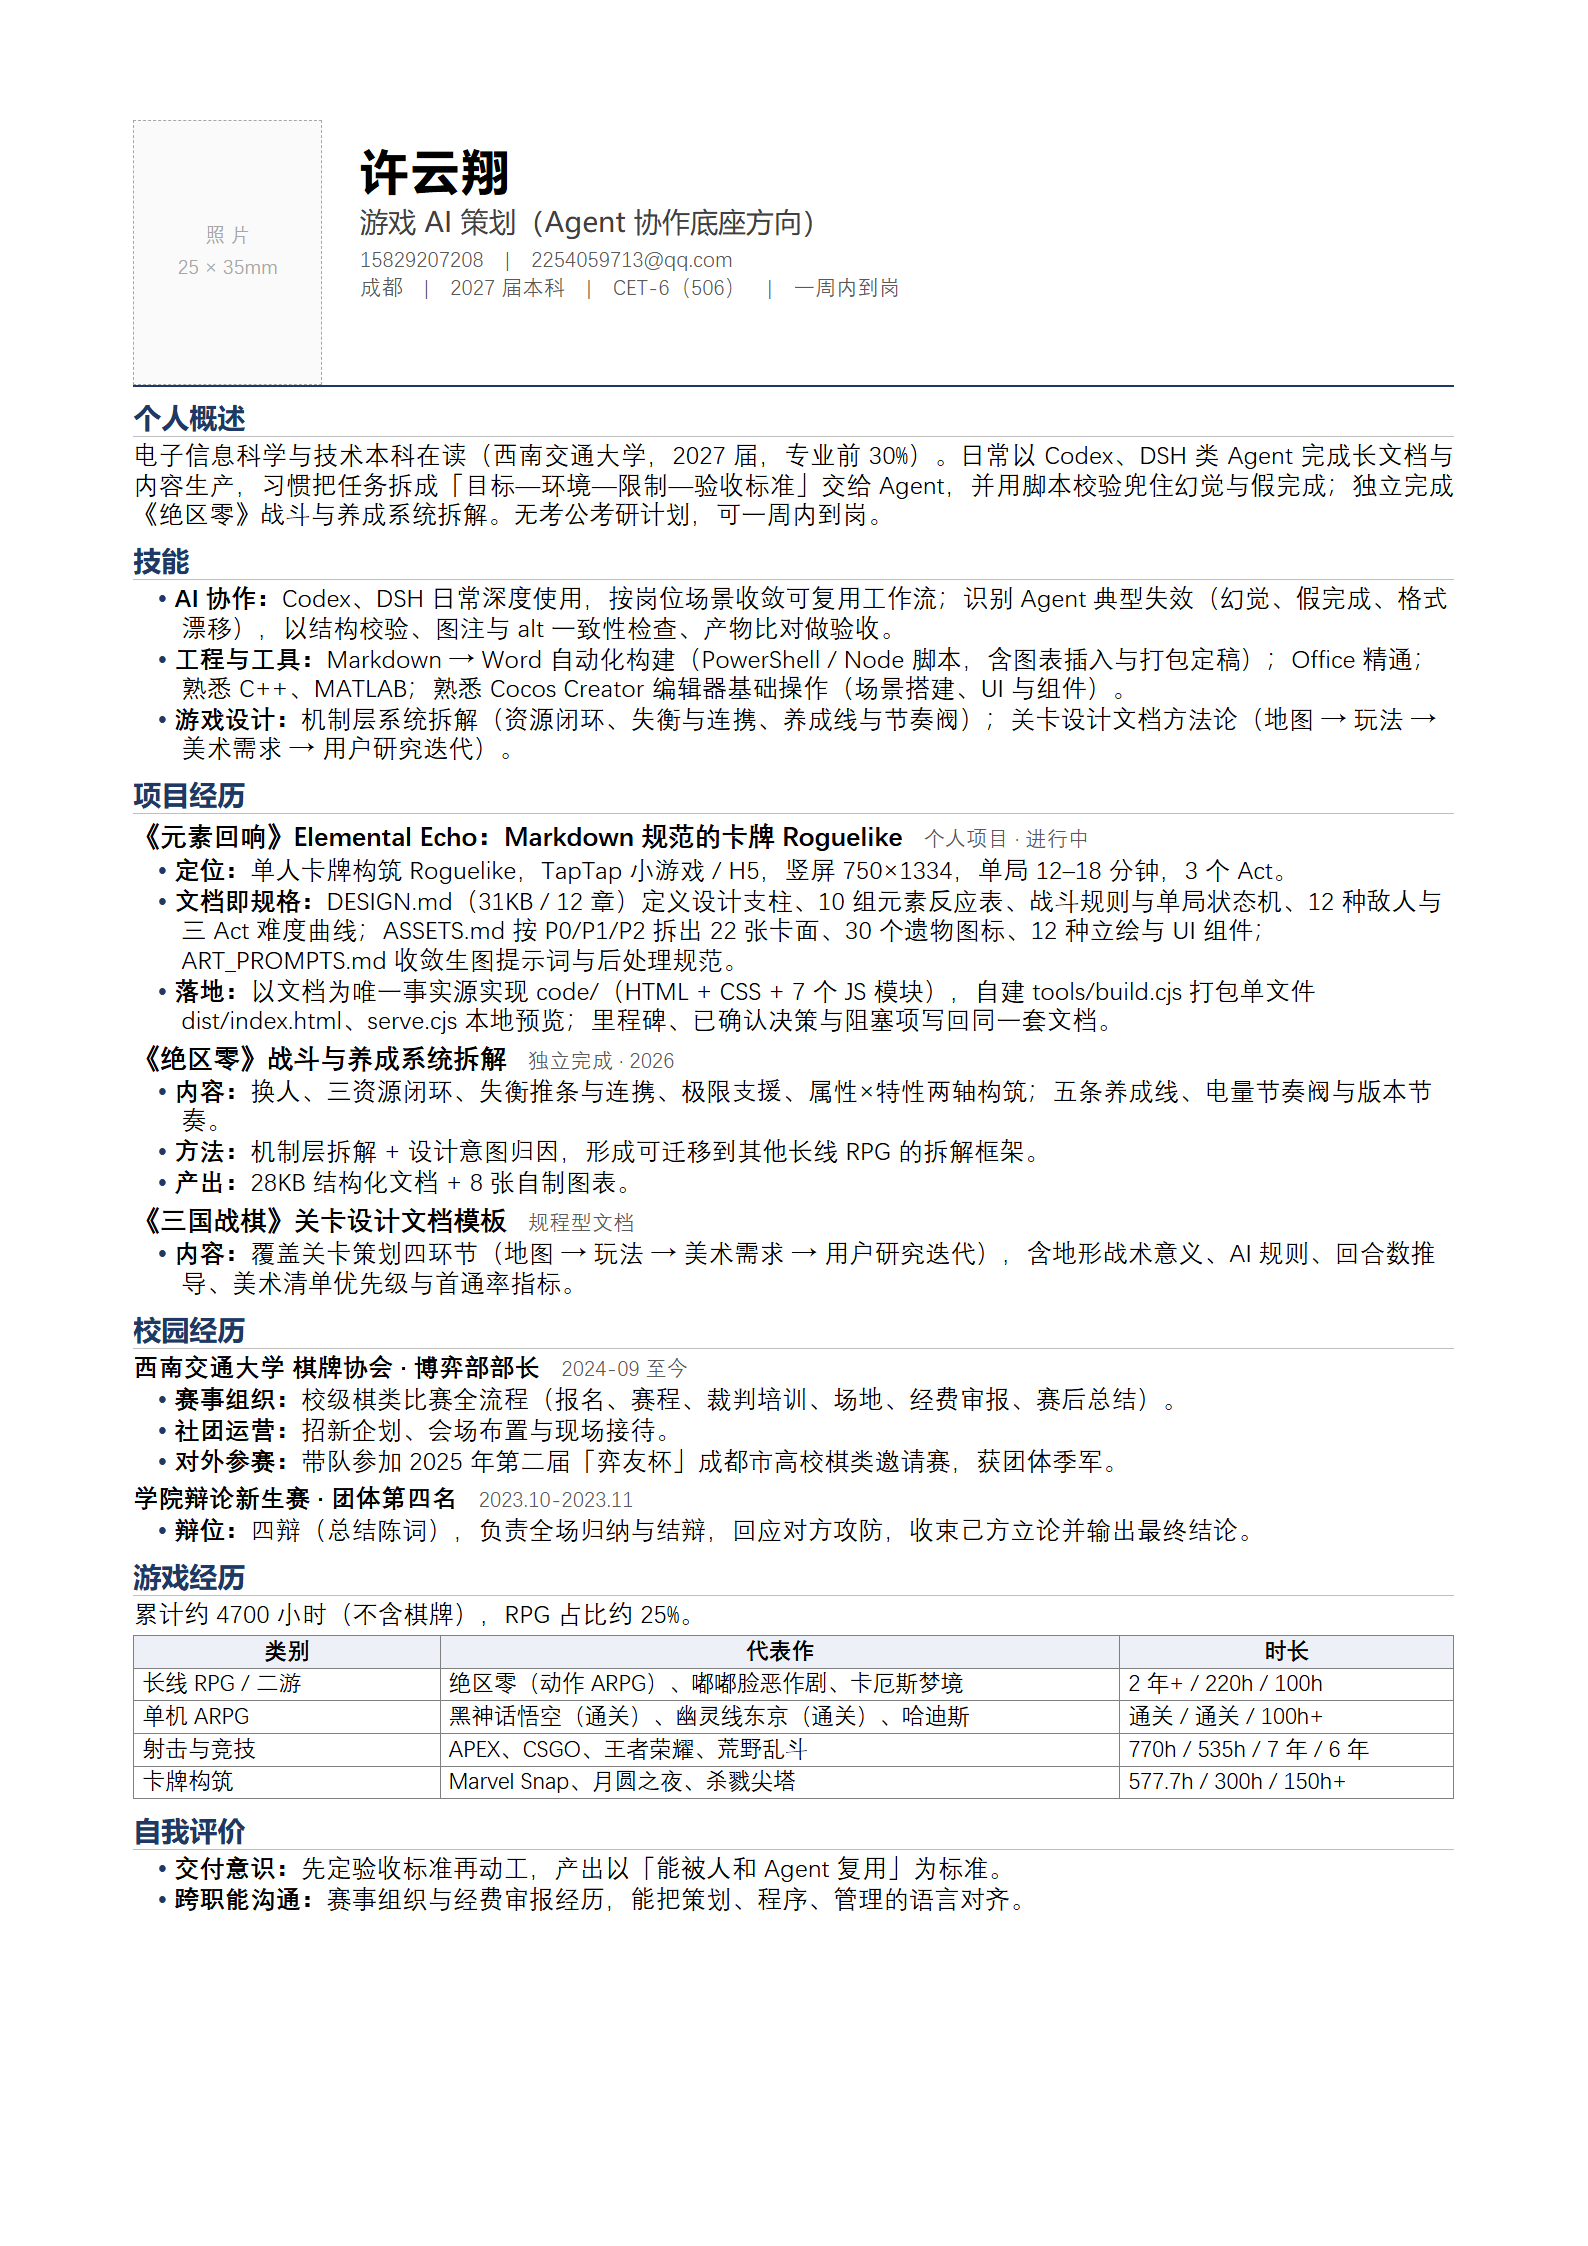
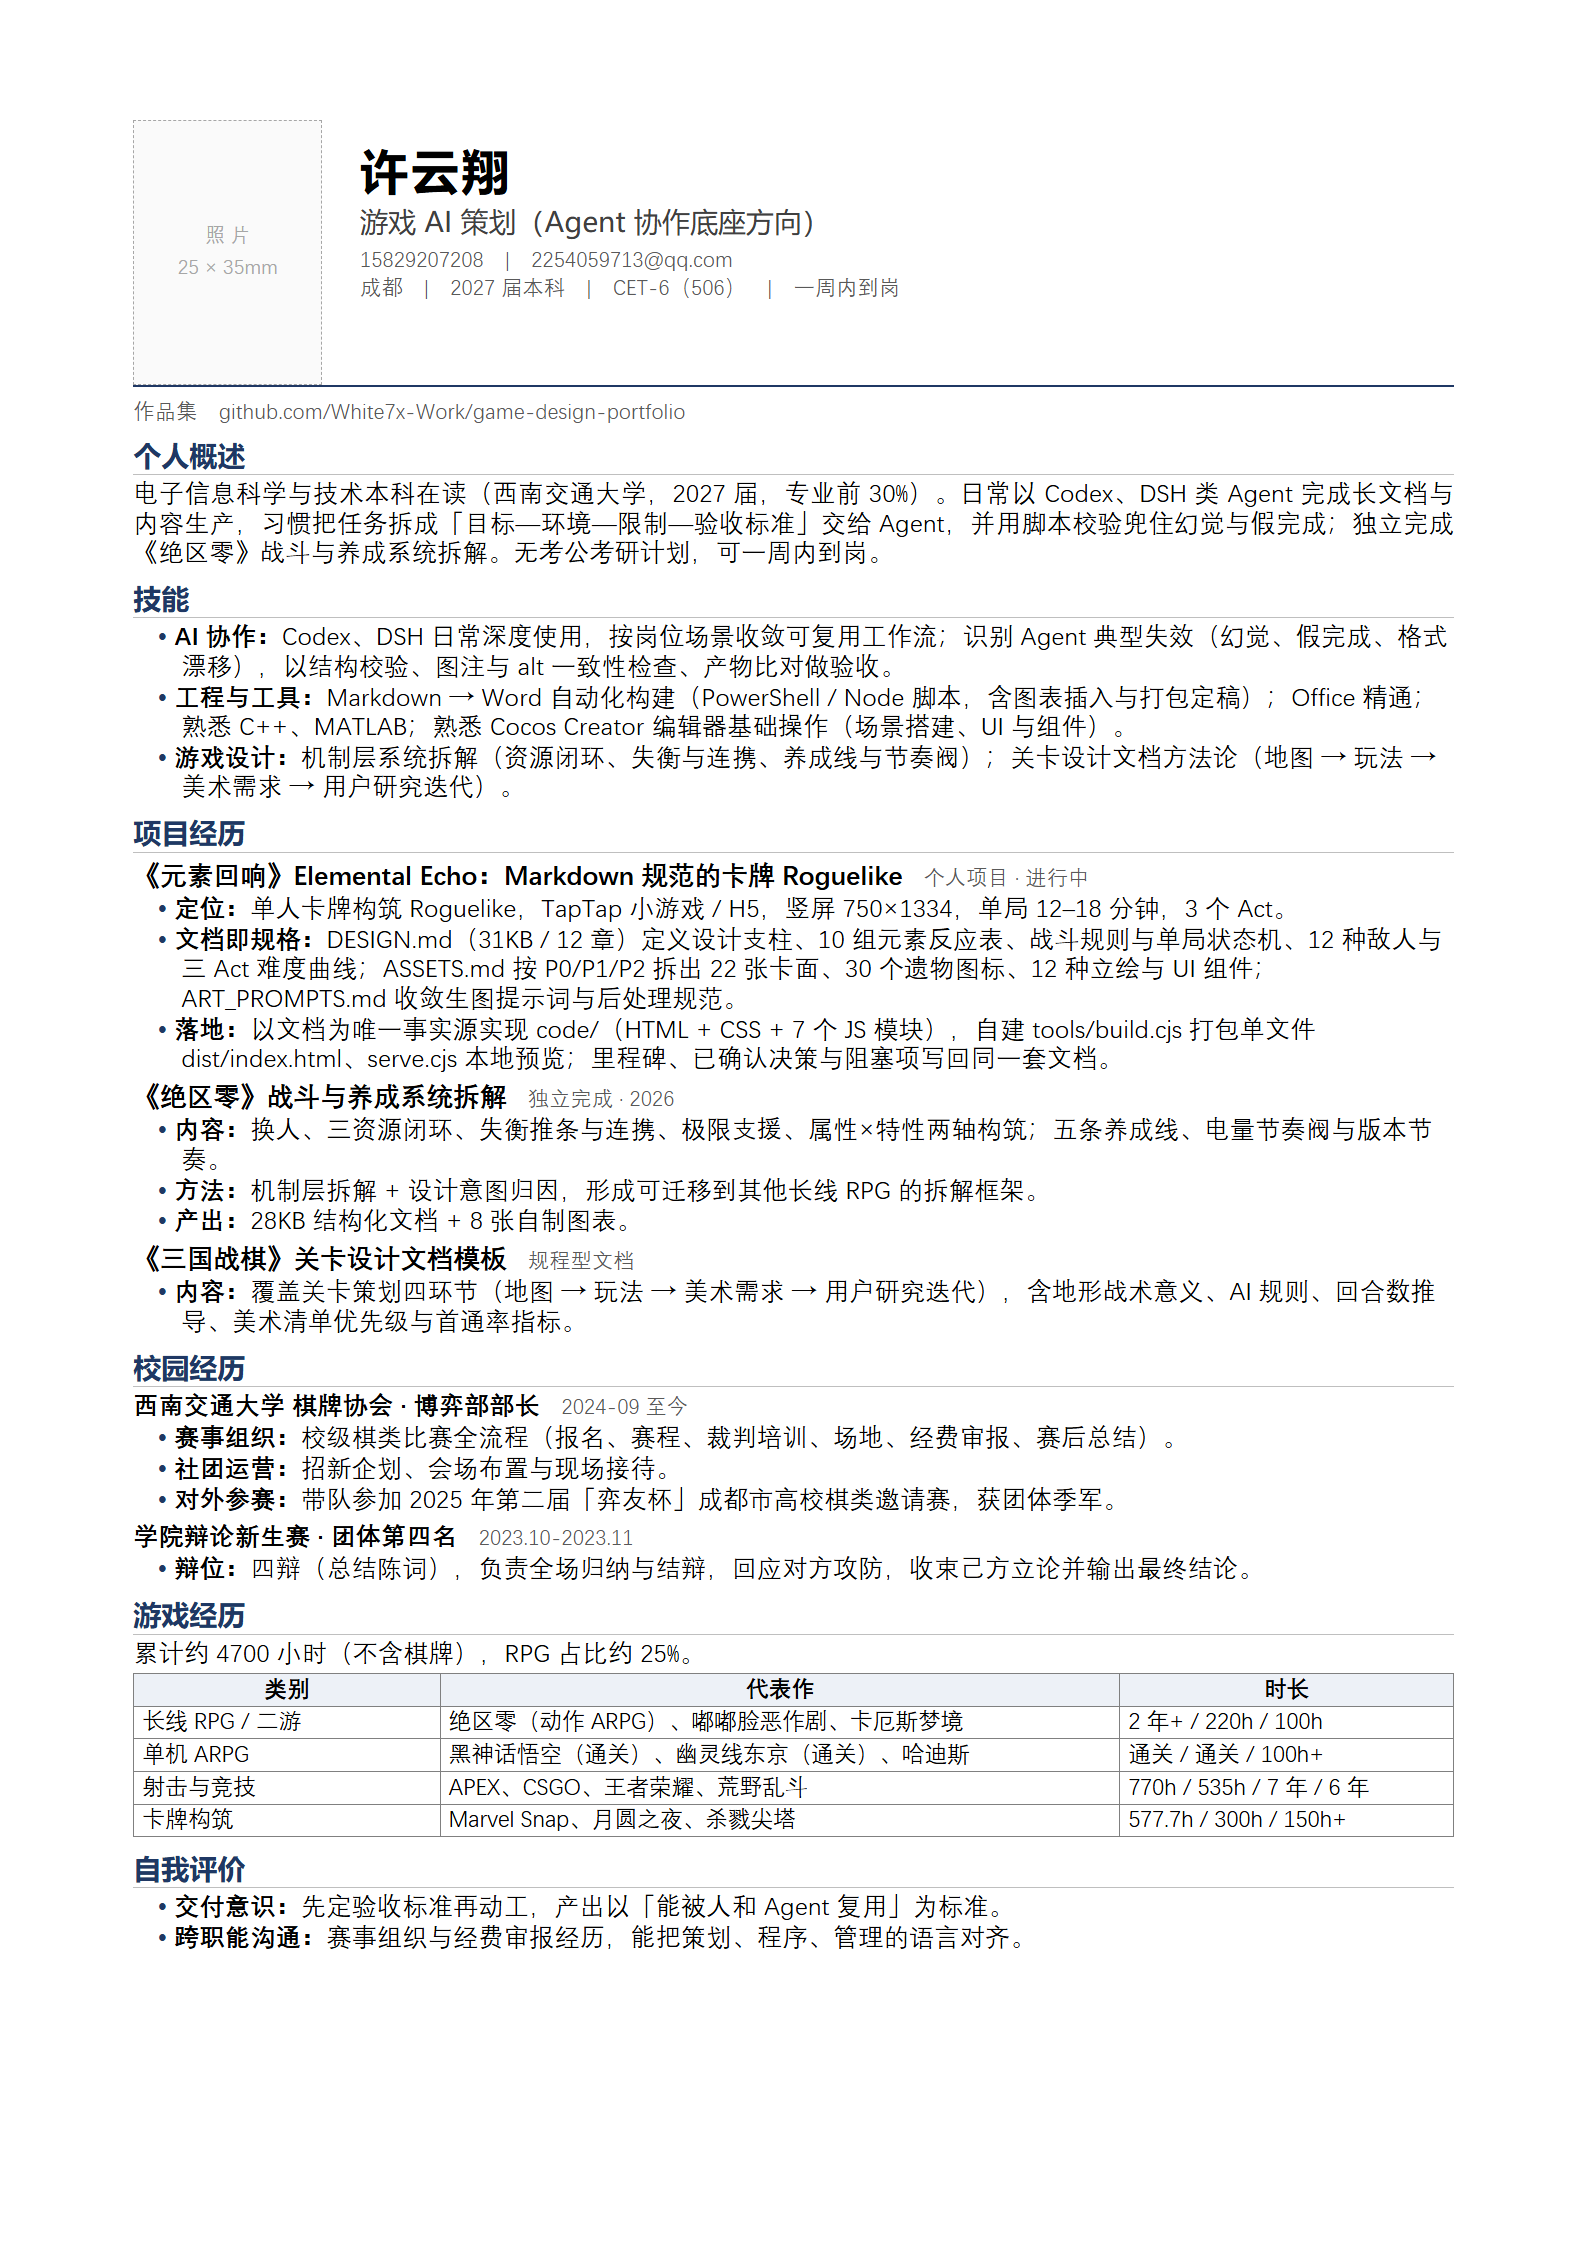
resume: add portfolio repository link

Changed region(s): [[0.0617, 0.1558, 0.9257, 0.8727], [0.7097, 0.7168, 0.864, 0.8103], [0.8331, 0.374, 0.8948, 0.4363]]

diff --git a/resume/许云翔-游戏AI策划-简历.md b/resume/许云翔-游戏AI策划-简历.md
@@ -4,6 +4,8 @@
 
 15829207208　|　2254059713@qq.com　|　成都　|　2027 届本科　|　CET-6（506）　|　一周内到岗
 
+作品集：https://github.com/White7x-Work/game-design-portfolio
+
 ## 一、个人概述
 
 电子信息科学与技术本科在读（西南交通大学，2027 届，专业前 30%）。日常以 Codex、DSH 类 Agent 完成长文档与内容生产，习惯把任务拆成「目标—环境—限制—验收标准」交给 Agent，并用脚本校验兜住幻觉与假完成；独立完成《绝区零》战斗与养成系统拆解。无考公考研计划，可一周内到岗。
